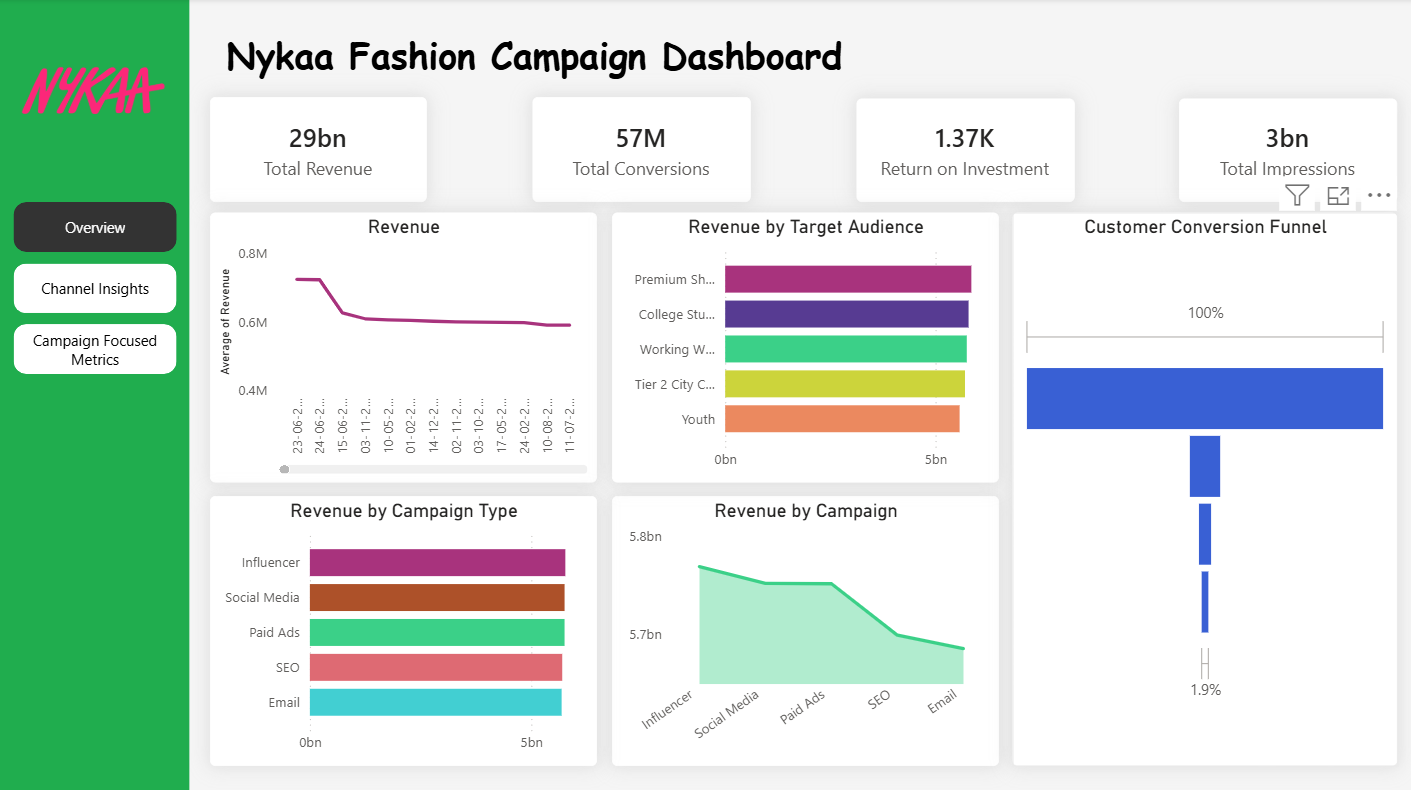
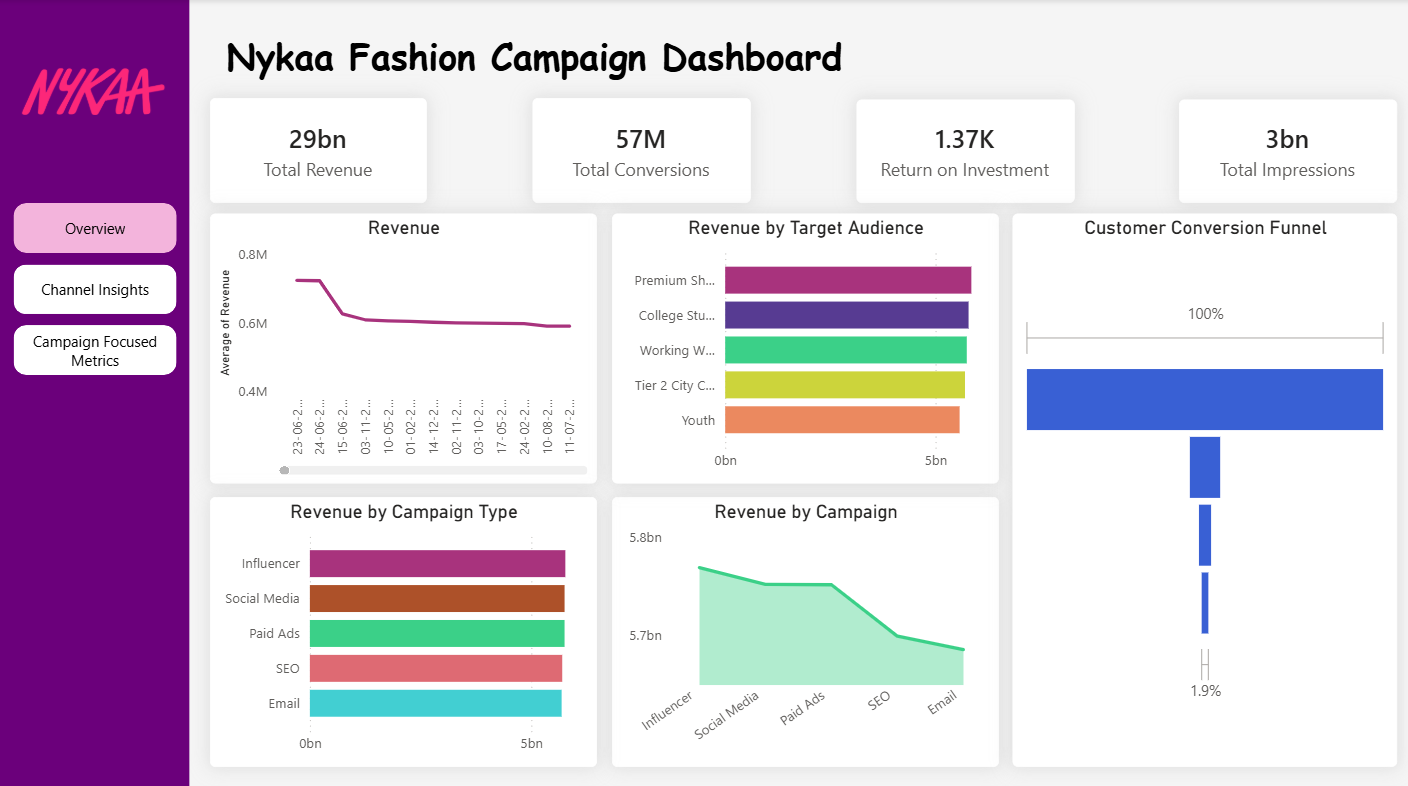
Added Nykaa dashboard

diff --git a/Nykaa Campaign Analysis Dashboard/README.md b/Nykaa Campaign Analysis Dashboard/README.md
@@ -48,7 +48,7 @@ Provides a high-level summary of campaign performance:
 
 \* Premium and working professionals are key target audiences
 
-\* Revenue shows a declining trend over time in certain campaigns
+\* Revenue shows a declining trend over time
 
 
 
@@ -60,53 +60,27 @@ Provides a high-level summary of campaign performance:
 
 
 
-Analyzes performance across different marketing channels:
-
-
-
 \* \*\*Revenue by Channel\*\*
 
-
-
-&#x20; \* Instagram, WhatsApp, YouTube, and Google dominate revenue contribution
+&#x20; Instagram, WhatsApp, YouTube, and Google dominate revenue
 
 
 
 \* \*\*Conversion by Campaign Type\*\*
 
-
-
-&#x20; \* Social Media and Influencer campaigns show higher conversion rates
+&#x20; Social Media and Influencer campaigns perform best
 
 
 
 \* \*\*Customer Segmentation\*\*
 
-
-
-&#x20; \* Balanced contribution across:
-
-
-
-&#x20;   \* College Students
-
-&#x20;   \* Working Women
-
-&#x20;   \* Youth
-
-&#x20;   \* Premium Shoppers
-
-&#x20;   \* Tier 2 City Customers
+&#x20; Balanced across multiple customer groups
 
 
 
 \* \*\*Campaign Cost vs Revenue\*\*
 
-
-
-&#x20; \* Identifies efficiency of each campaign type
-
-&#x20; \* Helps compare ROI across channels
+&#x20; Helps compare efficiency of campaigns
 
 
 
@@ -118,39 +92,13 @@ Analyzes performance across different marketing channels:
 
 
 
-Provides deeper performance analysis:
-
-
-
 \* \*\*Conversion Rate by Campaign Type\*\*
-
-
-
-&#x20; \* Consistent performance across campaign types
-
-
 
 \* \*\*Campaign Trend Over Time\*\*
 
-
-
-&#x20; \* Tracks campaign activity and engagement across dates
-
-
-
 \* \*\*ROI by Campaign Type\*\*
 
-
-
-&#x20; \* Social Media and Influencer campaigns show higher returns
-
-
-
 \* \*\*Cost per Conversion\*\*
-
-
-
-&#x20; \* Helps evaluate cost efficiency of each campaign
 
 
 
@@ -162,49 +110,11 @@ Provides deeper performance analysis:
 
 
 
-\### 🗂 Data Modeling
+\* Data Modeling using structured schema
 
+\* DAX measures for KPIs
 
-
-\* Structured data model for efficient performance and filtering
-
-
-
-\### 🧮 DAX Measures
-
-
-
-\* Created KPIs such as:
-
-
-
-&#x20; \* Total Revenue
-
-&#x20; \* Conversions
-
-&#x20; \* ROI
-
-&#x20; \* Cost per Conversion
-
-
-
-\### 📊 Visualization
-
-
-
-\* Multi-page dashboard design
-
-\* Combination of bar charts, line charts, funnel, and scatter plots
-
-
-
-\### 🎛 Interactivity
-
-
-
-\* Page navigation for structured analysis
-
-\* Interactive visuals for deeper insights
+\* Interactive multi-page dashboard
 
 
 
@@ -227,16 +137,6 @@ Provides deeper performance analysis:
 \---
 
 
-
-\## 🖼 Dashboard Preview
-
-
-
-!\[Overview](overview.png)
-
-!\[Channel Insights](channel.png)
-
-!\[Campaign Metrics](campaign.png)
 
 
 
